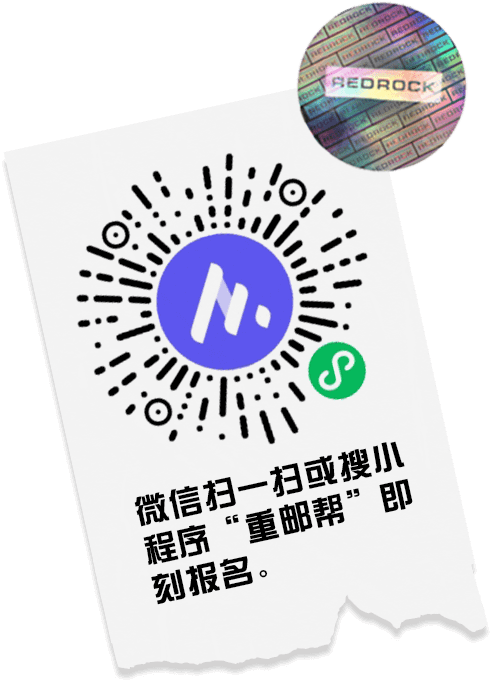
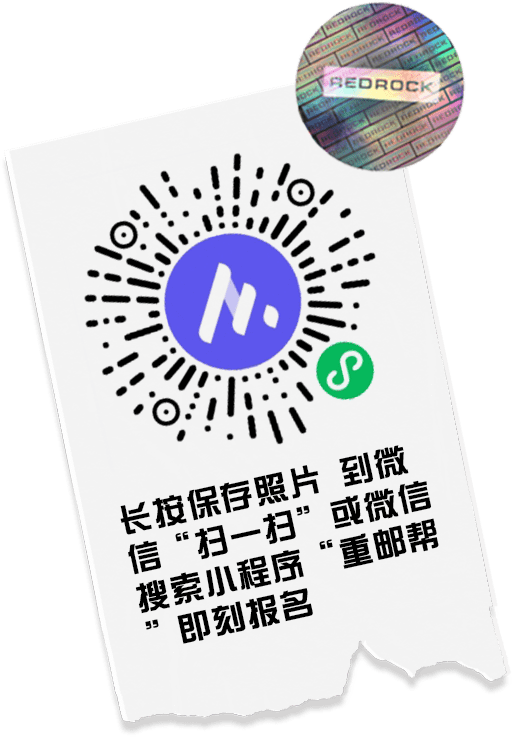
fix: 报名页二维码修改

diff --git a/src/views/Apply.vue b/src/views/Apply.vue
@@ -88,8 +88,8 @@ export default {
     position: relative;
     z-index: 20;
     .img {
-      width: 491px;
-      height: 682px;
+      width: 512px;
+      height: 737px;
     }
   }
   .bottom {
